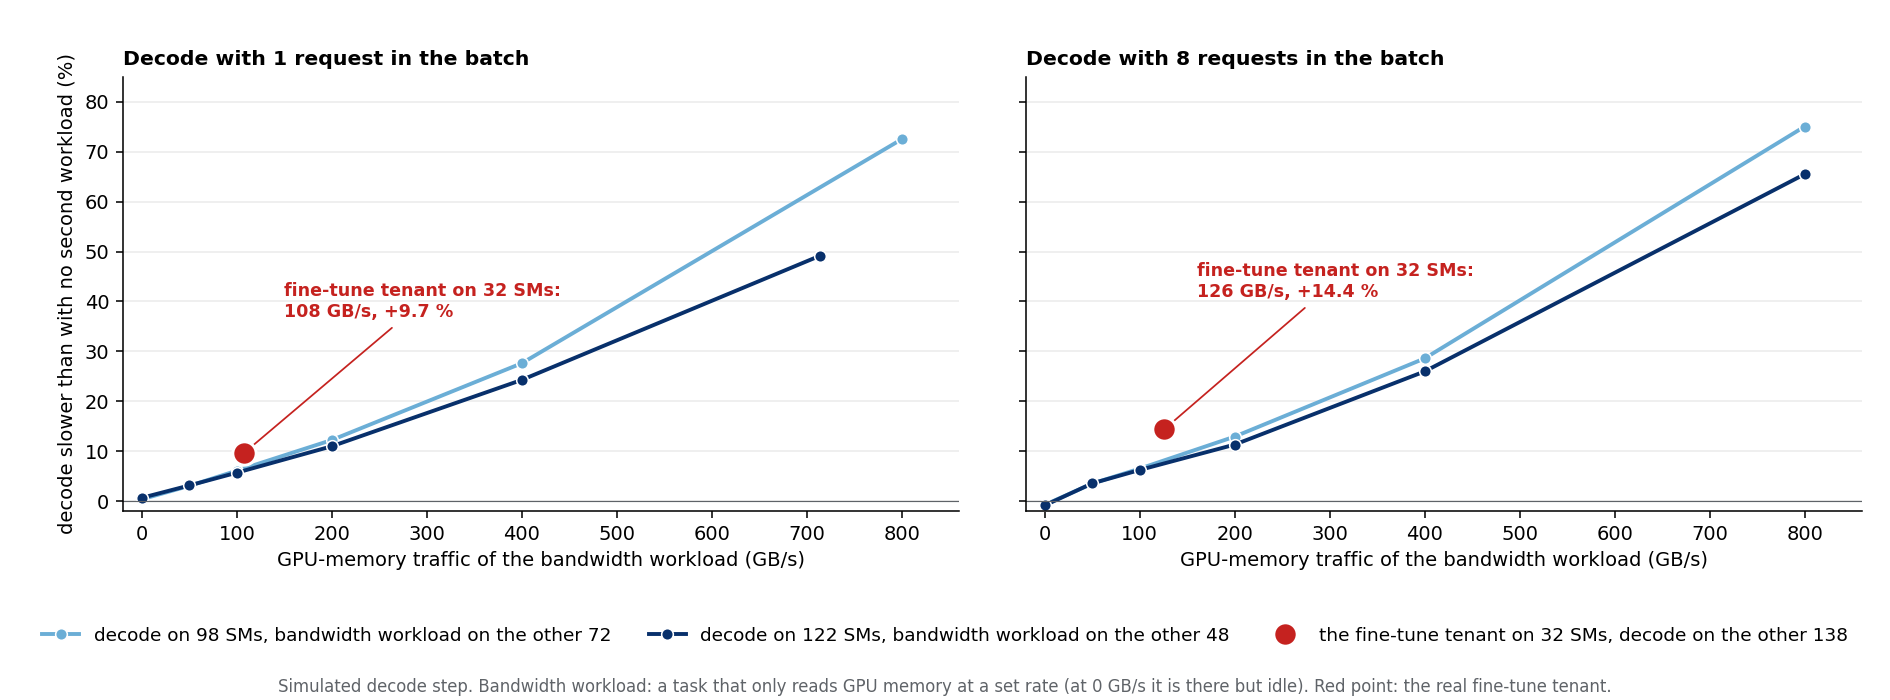
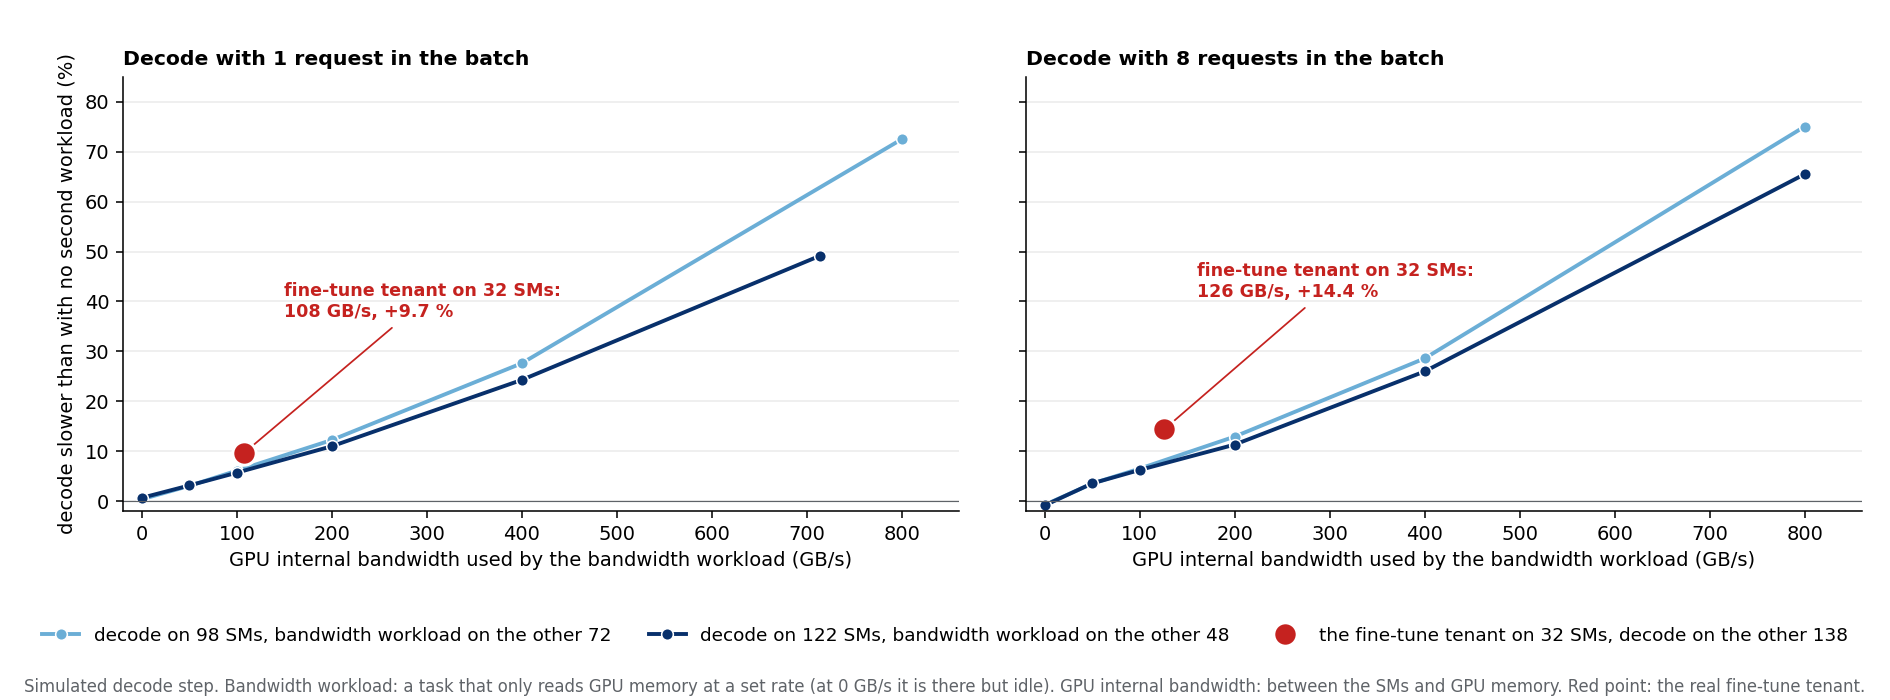
storyline/: one name for the SM <-> GPU-memory bandwidth, "GPU internal bandwidth"
storyline_zh.md: 8.3 opens with the definition (between the SMs and GPU memory, through the L2 cache and the memory
interface; SM-HBM bandwidth on cards with HBM, GDDR7 on this one); 8.3-8.5 and the earlier mentions use the one name.
Figures q3_shared_path, q3_bandwidth and q3_aggressor: titles and axis labels use it too.

Changed region(s): [[0.0, 0.96, 0.9989, 0.99], [0.5931, 0.78, 0.9365, 0.81], [0.1249, 0.78, 0.4683, 0.81]]

diff --git a/storyline/make_q3_figs.py b/storyline/make_q3_figs.py
@@ -114,11 +114,11 @@ def box(x, y, w, h, text, fc, ec, hatch=None, ls="-", fs=11, bold=True, tc=INK):
             bbox=dict(facecolor="white", edgecolor="none", pad=2.0) if hatch else None, linespacing=1.35)
 def arrow(x, y0, y1, col, lw): ax.add_patch(FancyArrowPatch((x, y0), (x, y1), arrowstyle="<->", mutation_scale=16, lw=lw, color=col, shrinkA=0, shrinkB=0))
 box(6, 74, 36, 16, "decode's SMs", ORG, ORG_D, tc="white"); box(58, 74, 36, 16, "tenant's SMs", ORG_L, ORG, hatch="///", ls="--", tc=ORG_D)
-box(6, 37, 88, 18, "path between the SMs and GPU memory\n(L2 cache and memory interface: one for the whole GPU)", "#f1f3f4", MUTE, fs=10.5)
+box(6, 35, 88, 22, "GPU internal bandwidth\nbetween the SMs and GPU memory (L2 cache, memory interface)\none for the whole GPU", "#f1f3f4", MUTE, fs=10.5)
 box(6, 5, 88, 14, "GPU memory:  decode's weights and KV   |   tenant's data", "#d2e3fc", BLUE, fs=10.5)
-arrow(24, 73.5, 55.5, ORG_D, 3.0); arrow(76, 73.5, 55.5, ORG, 3.0); arrow(50, 36.5, 19.5, MUTE, 3.0)
+arrow(24, 73.5, 57.5, ORG_D, 3.0); arrow(76, 73.5, 57.5, ORG, 3.0); arrow(50, 34.5, 19.5, MUTE, 3.0)
 ax.text(50, 96, "SMs can be given to one task or the other", ha="center", va="center", fontsize=9.5, color=MUTE)
-ax.set_title("Separate SMs, one path to GPU memory", loc="left", fontsize=12, fontweight="bold")
+ax.set_title("Separate SMs, one GPU internal bandwidth", loc="left", fontsize=12, fontweight="bold")
 fig.text(0.985, 0.012, "schematic", ha="right", va="bottom", fontsize=8, color=MUTE, style="italic")
 out = os.path.join(F, "q3_shared_path.png"); fig.savefig(out, dpi=140); plt.close(fig); print(out)
 
@@ -133,7 +133,7 @@ for B in (1, 4, 8):
     xs = sorted(n for n in pts if pts[n].get(B)); ax[1].plot(xs, [pts[n][B] for n in xs], "-o", color=COL[B], lw=2, ms=5, markeredgecolor="white", markeredgewidth=0.8, label=f"{B} request{'s' if B > 1 else ''} in the batch")
     print(f"traffic, {B} in batch: " + "  ".join(f"{int(r.sms)}: {r.gbps:.0f}" for r in s.itertuples() if r.sms in (32, 48, 64, 80, 96, 128, 170)))
 ax[0].axhline(1780, color=MUTE, lw=0.8, ls="--"); ax[0].text(4, 1800, "the card's nominal 1,780 GB/s", ha="left", va="bottom", fontsize=8.5, color=MUTE)
-ax[0].set_ylim(0, 2000); ax[0].set_ylabel("GB per second read from GPU memory"); title(ax[0], "Decode's GPU-memory traffic (simulated decode step)")
+ax[0].set_ylim(0, 2000); ax[0].set_ylabel("GB per second between the SMs and GPU memory"); title(ax[0], "GPU internal bandwidth used by decode (simulated decode step)")
 ax[1].axhline(100, color=MUTE, lw=0.8, ls="--"); ax[1].set_ylim(0, 120); ax[1].set_yticks([0, 20, 40, 60, 80, 100]); ax[1].set_ylabel("decode speed, % of the speed with all 170 SMs"); title(ax[1], "Decode's speed (vLLM)")
 for a in ax:
     a.axvline(80, color=MUTE, lw=1.0, ls="--"); a.set_xlim(0, 176); a.set_xticks([8, 32, 56, 80, 96, 128, 170]); a.set_xlabel("SMs decode may use (the card has 170)"); clean(a)
@@ -175,9 +175,9 @@ for a, B in zip(ax, (1, 8)):
         a.plot([tx], [ty], "o", ms=12, mfc=RED, mec=ring, mew=1.5, zorder=8, label="the fine-tune tenant on 32 SMs, decode on the other 138" if k == 0 else None)
         a.annotate(f"{name}:\n{tx} GB/s, +{ty:g} %", xy=(tx, ty), xytext=pos, fontsize=9, color=RED, fontweight="bold", linespacing=1.25, ha="left", va="bottom",
                    arrowprops=dict(arrowstyle="-", color=RED, lw=0.9, shrinkB=6))
-    title(a, f"Decode with {B} request{'s' if B > 1 else ''} in the batch"); a.set_xlabel("GPU-memory traffic of the bandwidth workload (GB/s)")
+    title(a, f"Decode with {B} request{'s' if B > 1 else ''} in the batch"); a.set_xlabel("GPU internal bandwidth used by the bandwidth workload (GB/s)")
     a.set_xlim(-20, 860); a.set_ylim(-2, 85); a.axhline(0, color=MUTE, lw=0.6); clean(a)
 ax[0].set_ylabel("decode slower than with no second workload (%)")
 h, l = ax[0].get_legend_handles_labels(); fig.legend(h, l, loc="lower center", ncol=3, frameon=False, fontsize=9.5, bbox_to_anchor=(0.5, 0.055))
-fig.text(0.5, 0.012, "Simulated decode step. Bandwidth workload: a task that only reads GPU memory at a set rate (at 0 GB/s it is there but idle). Red point: the real fine-tune tenant.", ha="center", fontsize=8.5, color=MUTE)
+fig.text(0.5, 0.012, "Simulated decode step. Bandwidth workload: a task that only reads GPU memory at a set rate (at 0 GB/s it is there but idle). GPU internal bandwidth: between the SMs and GPU memory. Red point: the real fine-tune tenant.", ha="center", fontsize=8.5, color=MUTE)
 out = os.path.join(F, "q3_aggressor.png"); fig.savefig(out, dpi=140); plt.close(fig); print(out)

diff --git a/storyline/storyline_zh.md b/storyline/storyline_zh.md
@@ -6,7 +6,7 @@
 
 约定：显存 = GPU 上的内存；主机内存 = 机器的内存。数字后面都注明是哪一次测的、和什么比。
 
-状态：第 0–8 步已记录（第 8 步是问题 3 的前半：观察、排除主机拷贝、显存通道、两个验证）；后面的部分还没讲到。
+状态：第 0–8 步已记录（第 8 步是问题 3 的前半：观察、排除主机拷贝、GPU 内部带宽、两个验证）；后面的部分还没讲到。
 
 ---
 
@@ -108,7 +108,7 @@ TTFT p50 从 51 ms 升到 154 ms；3 GiB 时 TTFT p50 2.3 s；2 GiB 时 32 s。
 |---|---|---|
 | 1 | VRAM scheduler：按在途和排队的请求算需求，实时改 kvcached 的上限 | 报告 1 阶段二 |
 | 2 | 各种共用算力的方式（轮流用、MPS、分 SM、限速），以及之后的 BWS、BWR、新 tenant | 报告 1 阶段二、报告 3、夜间报告 |
-| 3 | SM 到显存的共用通道（带宽）；另外还有 kernel 启动次数、功率上限、共用的 L2 缓存 | 报告 2、报告 3 第 7 节 |
+| 3 | GPU 内部带宽（SM 和显存之间的带宽）；另外还有 kernel 启动次数、功率上限、共用的 L2 缓存 | 报告 2、报告 3 第 7 节 |
 
 ---
 
@@ -289,7 +289,7 @@ tenant 的显存预算 = 整卡 31.35 GiB − 引擎权重和运行时（约 17 
 - 同一种设置的重复之间只差 0.1–0.3 %，所以 3–4 % 的差别不是波动。
 - 170 个 SM 的 green context 和平常的 context 一样快，所以也不是"基准线偏慢"。
 - 结论：同时有 4 个以上请求时，decode 用 128 个 SM 比用全部 170 个快约 3.5 %；只有 1 个请求时没有差别。原因没有查
-  （我的猜测：SM 比显存通道喂得过来的数量多时，多出来的 SM 只是在抢同一条通道）。
+  （我的猜测：SM 的数量超过 GPU 内部带宽喂得过来的程度时，多出来的 SM 只是在抢同一份带宽）。
 - 数据：`coloc_adjust/results_sm/rep*_*.json`，脚本 `coloc_adjust/run_sm_repeat.sh`。
 
 **模拟 decode 的结果一致。** 之前用模拟的 decode 步（和 Llama-3-8B 同样形状的一步 decode，随机权重，每个请求 6,272 个 token 的上下文）量过同一件事，
@@ -497,19 +497,23 @@ tenant 每算一层之前看一眼这个标志，忙就等。
 数据：第 2 轮 MPS 不限制的那次运行（tenant 拷贝最多的一次），每一次拷贝都有记录（`coloc_adjust/results/adjust_nogate_xfer_*.csv`）；报告 2 第 2 节。
 （原来的图 `coloc_adjust/report/figures/adjust_nogate_xfer.png` 有五栏时间线，这里换成了一张只说"用了多少"的图。）
 
-### 8.3 往下一层：SM 和显存之间的那条通道
+### 8.3 往下一层：GPU 内部带宽（GPU internal bandwidth）
+
+**先定义这个词。** 下文说的 **GPU 内部带宽（GPU internal bandwidth）**，指的是 GPU 芯片内部、**SM 和显存之间**每秒能传多少数据。
+数据中心的卡显存是 HBM，所以也常叫 SM–HBM 带宽；这张卡（RTX 5090）的显存是 GDDR7，指的是同一样东西。
+它经过整卡共用的 L2 缓存和显存接口，标称值是 1.78 TB/s。它和 8.2 节的"主机内存 ↔ GPU"链路不是一回事：那条在 GPU 外面，这条在 GPU 里面。
+下文说一个任务的"流量"或"每秒搬多少数据"，都是指它占用了多少 GPU 内部带宽。
 
 ![图 8-3](figures/q3_shared_path.png)
 
-*图 8-3：SM 可以分给这个任务或那个任务；SM 和显存之间的通道（L2 缓存和显存接口）整卡只有一条，两个任务共用。*
+*图 8-3：SM 可以分给这个任务或那个任务；GPU 内部带宽整卡只有一份，两个任务共用。*
 
-- 每个任务算的时候都要在 SM 和显存之间读写数据，这些数据都走同一条通道。SM 能分，这条通道不能分。
+- 每个任务算的时候都要在 SM 和显存之间读写数据，这些数据都占 GPU 内部带宽。SM 能分，GPU 内部带宽不能分。
 - 这个结构是从数字节推断出来的，不是在芯片内部看到的。
-- 用词：这张卡（RTX 5090）的显存是 GDDR7，不是 HBM。报告里统一叫"显存"，这条通道的速率叫"显存带宽"，标称 1.78 TB/s。
 
-**由此引出的问题：这条通道是不是瓶颈，是不是争用的原因？**
+**由此引出的问题：GPU 内部带宽是不是瓶颈，是不是争用的原因？**
 
-### 8.4 验证一：decode 自己是不是卡在这条通道上
+### 8.4 验证一：decode 自己是不是卡在 GPU 内部带宽上
 
 ![图 8-4](figures/q3_bandwidth.png)
 
@@ -529,12 +533,12 @@ decode 每秒从显存读的数据（GB/s，模拟的 decode 步，decode 单独
 **读这张图要小心的一点。** 左图的流量 = 一步必须读的字节数 ÷ 实测的步长。对同一条线来说，流量曲线和速度曲线本来就是同一条曲线，
 "同时到顶"是算出来的，不是独立的证据。真正的证据是下面三条：
 - 三种负载每一步要读的字节数不同（15.8 / 18.3 / 21.6 GB），步长也不同，但平台都落在同一个 GB/s 上。如果限制它的是 SM 的算力，没有理由这样。
-- 硬件的显存带宽计数器（NVML GPM）独立量到的流量，和按字节算的对得上（54 个点，中位误差 0.5 %）。
+- 硬件的 GPU 内部带宽计数器（NVML GPM 的显存带宽计数器）独立量到的流量，和按字节算的对得上（54 个点，中位误差 0.5 %）。
 - 对照：同样的方法测一段 prefill（以算术为主），它没有平台，128 个 SM 才到整卡的 88 %。
 
-另外左图是模拟的 decode 步，右图是 vLLM。今天 vLLM 的那组测试没有记录显存带宽计数器。
+另外左图是模拟的 decode 步，右图是 vLLM。今天 vLLM 的那组测试没有记录这个计数器。
 
-### 8.5 验证二：构造一个只占显存带宽的 tenant，看 decode 怎么变
+### 8.5 验证二：构造一个只占 GPU 内部带宽的任务（bandwidth workload），看 decode 怎么变
 
 **这一段用的是模拟 decode。** 报告 2 的整个阶段三都是：decode 是模拟的 decode 步，没有在 vLLM 上做过。
 
@@ -594,7 +598,6 @@ decode 每秒从显存读的数据（GB/s，模拟的 decode 步，decode 单独
 | 第 6 步是否在 500 W 的设置下重跑"给满"的那次 | 新实验，约 15 分钟 GPU；等"启动" |
 | 第 7 步：延迟 SLO 归在哪一类（按实现它是"少给时间"，不是空间切片） | 你定 |
 | 默认模式（CUDA graph）下 green context 限制不住 vLLM 引擎：报告 1 的 `engine_green`、`green_split` 两条结论要不要更正，报告 4 的 prefill 引擎划分是否也受影响 | 你定；更正报告不需要实验，核实报告 4 需要看它的引擎是不是默认模式 |
-| 第 8 步：口述里说的是 HBM ↔ L2；这张卡的显存是 GDDR7，报告里写成"显存和 SM 之间的通道" | 你确认 |
 | 第 8.5 步（构造的 tenant）是模拟 decode 上测的；要不要在 vLLM 上重做 | 你定；新实验，等"启动" |
-| 第 8.4 步左图是模拟 decode；要不要在 vLLM 上补测显存带宽计数器随 SM 数的变化 | 你定；新实验，等"启动" |
+| 第 8.4 步左图是模拟 decode；要不要在 vLLM 上补测 GPU 内部带宽计数器随 SM 数的变化 | 你定；新实验，等"启动" |
 | 第 8 步之后的故事（问题 3 的后半；BWS、BWR、新 tenant） | 等你继续讲 |
